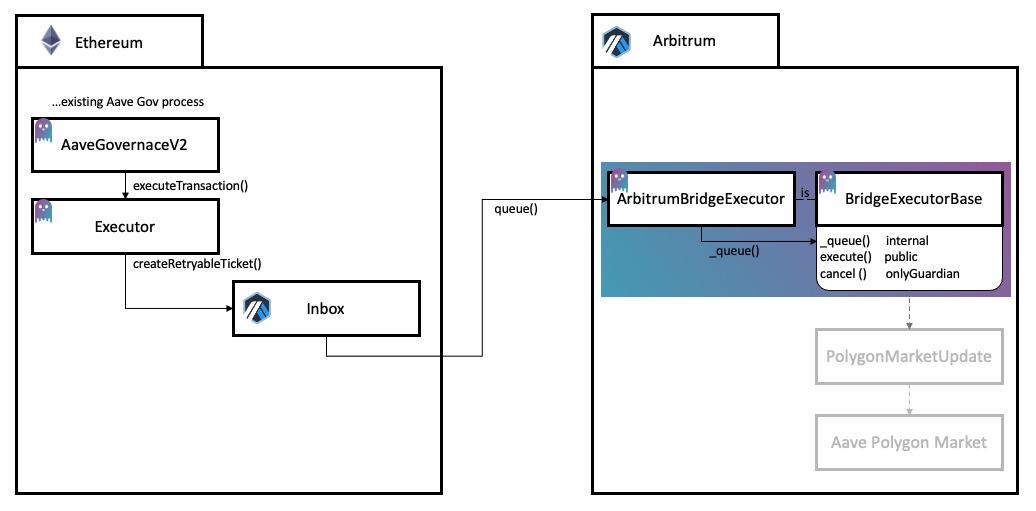
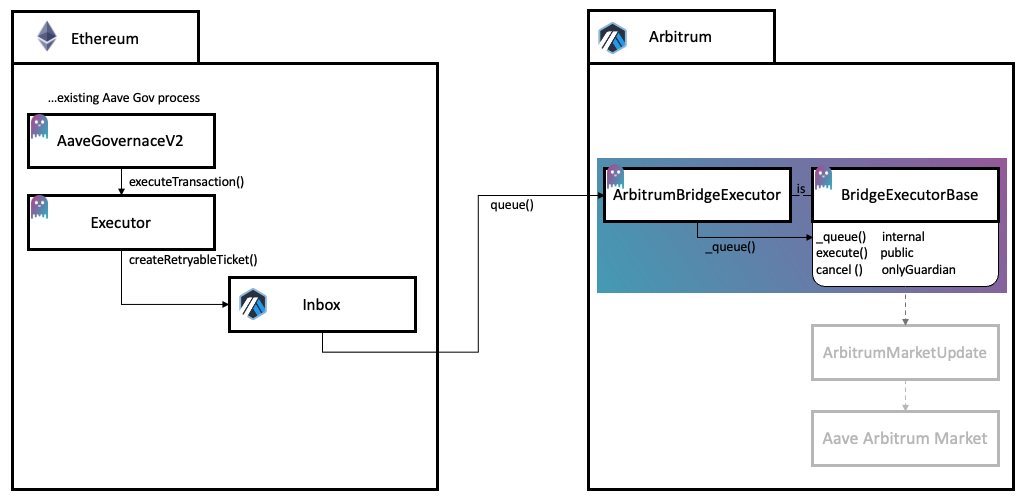
fix: readme formatting and arch pic

diff --git a/README.md b/README.md
@@ -11,7 +11,7 @@
  -/:             :/-  -/:             :/.     ://:         `/////////////-
 ```
 
-# Aave Governance Bridges
+# Aave Crosschain Bridges
 
 This repo contains the smart contracts and related code for bridging Aave governance-v2 contracts on Ethereum to other networks.
 
@@ -60,8 +60,8 @@ This will compile the available smart contracts.
 
 Additional documentation around the Polygon Bridging setup can be found at the links below:
 
-[Polygon Docs `L1<>L2 Communication`](https://docs.matic.network/docs/develop/l1-l2-communication/state-transfer)
-[FxPortal](https://github.com/jdkanani/fx-portal) 
+- [Polygon Docs `L1<>L2 Communication`](https://docs.matic.network/docs/develop/l1-l2-communication/state-transfer)
+- [FxPortal](https://github.com/jdkanani/fx-portal) 
 
 ### Test / Coverage
 
@@ -116,14 +116,14 @@ Polygon validators listen for `StateSynced` events from the `StateSender` - upon
 
 The BridgeExecutor implements the function `processMessageFromRoot(stateId, rootMessageSender, data);`. In this function, requiring that the `msg.sender` is the `FxChild` should ensure this is a legitimate transaction stemming from the ethereum bridge. By confirming that the `rootMessageSender` is the AaveGovernance Executor contract, this BridgeExecutor can conclude this bridge transaction was triggered be the Aave Governance process and should be handled.
 
-### Arbitrum Governance Bridge Architecture
+## Arbitrum Governance Bridge Architecture
 
 ![aave-abitrum-governance-bridge-architecture](./ArbitrumBridgeArch.png)
 
 Additional documentation around the Polygon Bridging setup can be found at the links below:
 
-[Arbitrum Docs `Messaging Between Layers`](https://developer.offchainlabs.com/docs/l1_l2_messages)
-[Inside Arbitrum `Bridging`](https://github.com/jdkanani/fx-portal) 
+- [Arbitrum Docs `Messaging Between Layers`](https://developer.offchainlabs.com/docs/l1_l2_messages)
+- [Inside Arbitrum `Bridging`](https://github.com/jdkanani/fx-portal) 
 
 
 ## Additional Available Tasks
